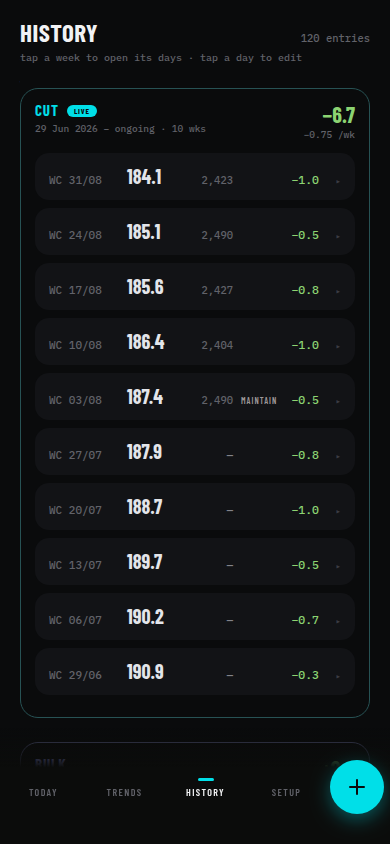
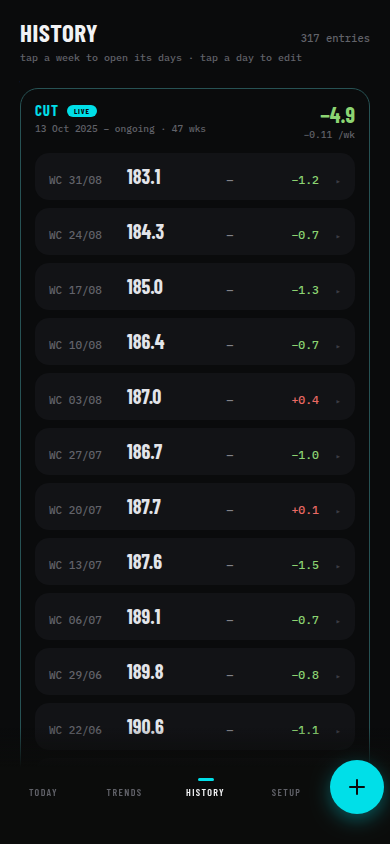
README: split screenshots into three Today phases + the other three screens
Was one Today + Trends/History/Setup in a single row, which buried the new
phase-accent colour work. Now: Today in Cut/Bulk/Maintain (today-cut.png,
today-bulk.png, today-maintain.png) on their own row, then Trends/History/
Setup underneath — all regenerated from the real 317-entry fixture
(tests/fixtures/weight-data.ts), date-shifted to end today. The Bulk and
Maintain Today shots synthesize a plausible tail (a rising trend / a flat
one) over the last several weeks of that same real history so the rate bar
and weekly-change bars read correctly for each phase; Trends/History/Setup
come from the real data untouched, staged as a Cut. Also adds a line to the
overview and the Setup bullet noting the accent now follows phase.

diff --git a/README.md b/README.md
@@ -10,8 +10,15 @@ weekly goal.
 
 Ships as a web PWA and as a native Android app via Capacitor.
 
+The accent follows your current phase — cyan cutting, magenta bulking, a calmer steel while
+holding — cross-fading on a phase change with a one-shot shimmer across the coloured chrome.
+
 <p align="center">
-  <img src="docs/screenshots/today.png" width="220" alt="Today screen" />
+  <img src="docs/screenshots/today-cut.png" width="220" alt="Today screen, Cut phase" />
+  <img src="docs/screenshots/today-bulk.png" width="220" alt="Today screen, Bulk phase" />
+  <img src="docs/screenshots/today-maintain.png" width="220" alt="Today screen, Maintain phase" />
+</p>
+<p align="center">
   <img src="docs/screenshots/trends.png" width="220" alt="Trends screen" />
   <img src="docs/screenshots/history.png" width="220" alt="History screen" />
   <img src="docs/screenshots/setup.png" width="220" alt="Setup screen" />
@@ -31,8 +38,9 @@ Ships as a web PWA and as a native Android app via Capacitor.
   total weight change and average rate, expandable to the individual days. Deload and maintenance
   weeks are tagged in place.
 - **Setup — the rules.** Current phase (Cut / Bulk / Maintain) — changing it is staged behind a
-  confirm with an undo; one-tap Deload / Maintenance week markers that don't reset the phase;
-  weekly target and week counter; units; the Health Connect connection; and your data totals.
+  confirm with an undo, and commits by cross-fading the app's accent to match; one-tap Deload /
+  Maintenance week markers that don't reset the phase; weekly target and week counter; units; the
+  Health Connect connection; and your data totals.
 
 ## Stack
 
